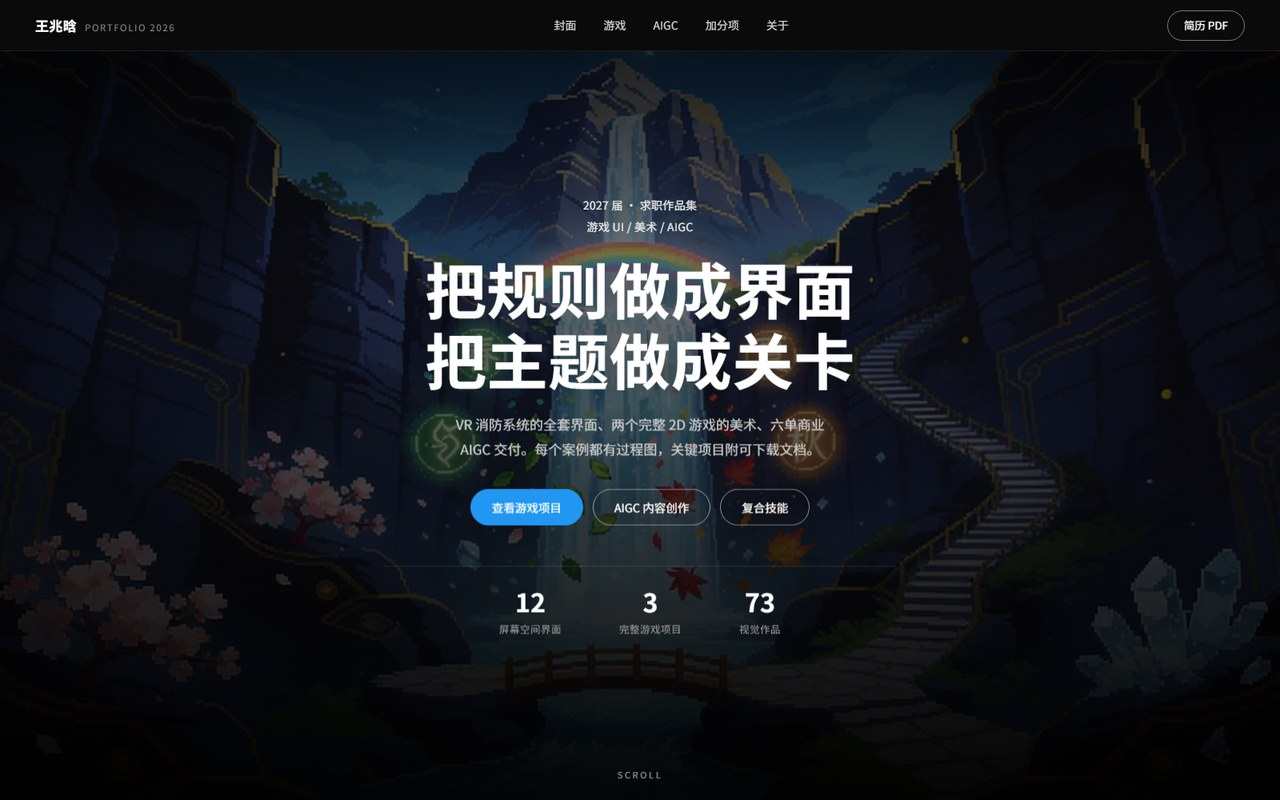
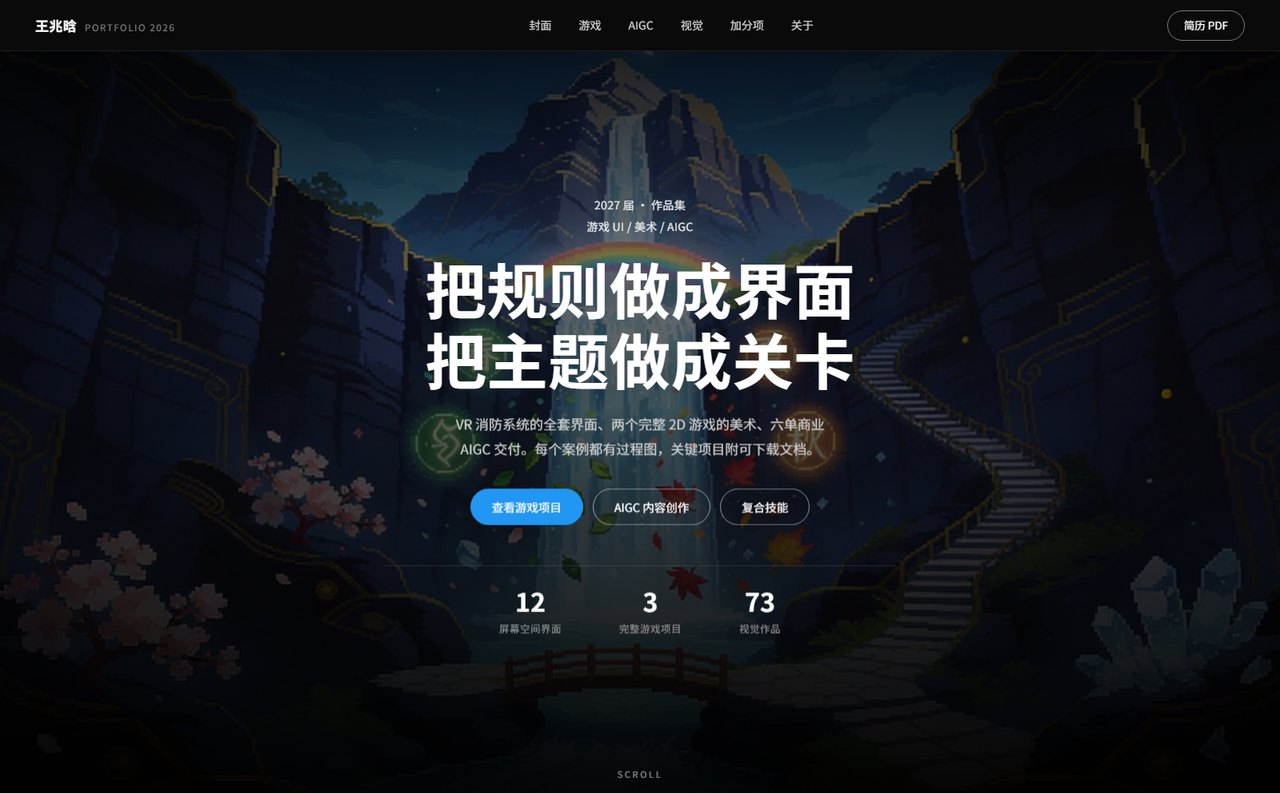
海报容器透明化；本站封面换成主页首屏截图

diff --git a/assets/editorial.css b/assets/editorial.css
@@ -408,3 +408,6 @@
   height:auto!important;max-height:min(58vh,560px)!important;
   object-fit:contain!important;margin:0 auto;display:block;
 }
+
+.feat{background:transparent!important}
+.feat-grid{background:transparent!important}
